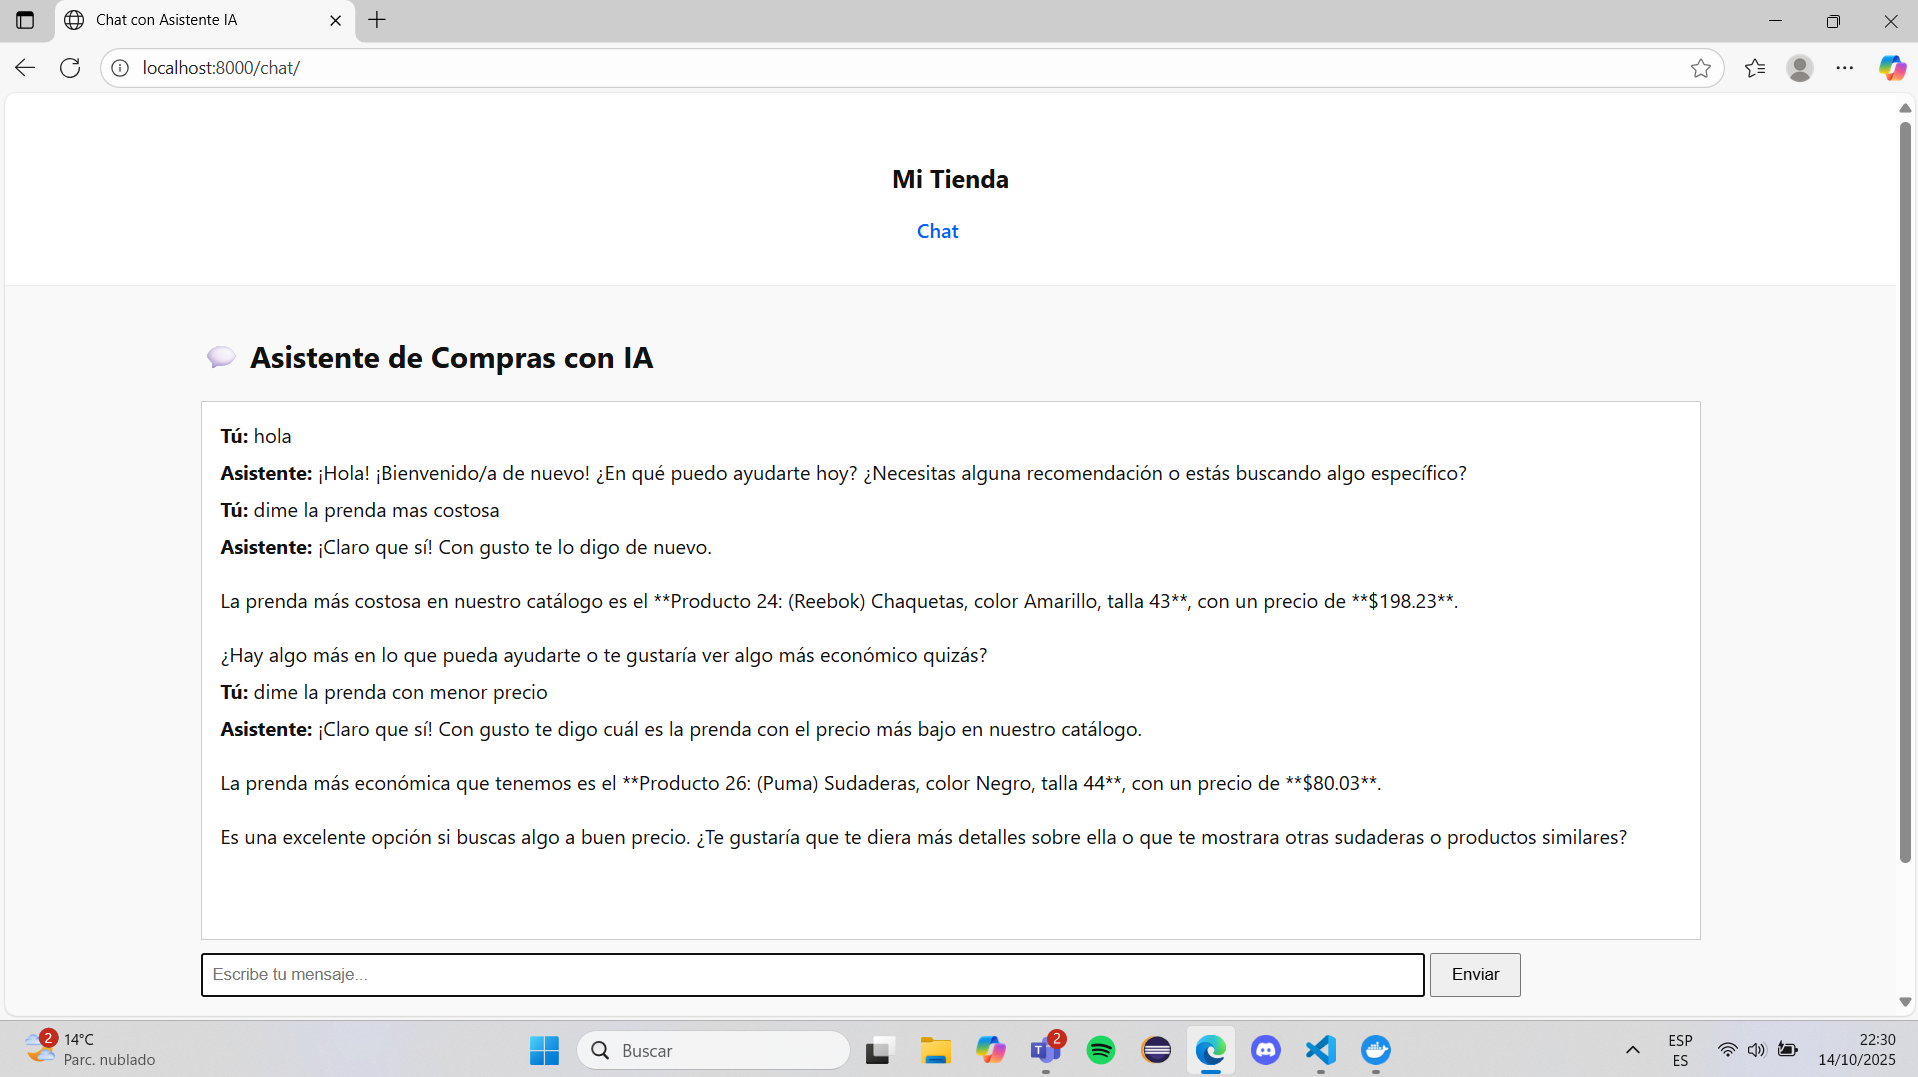
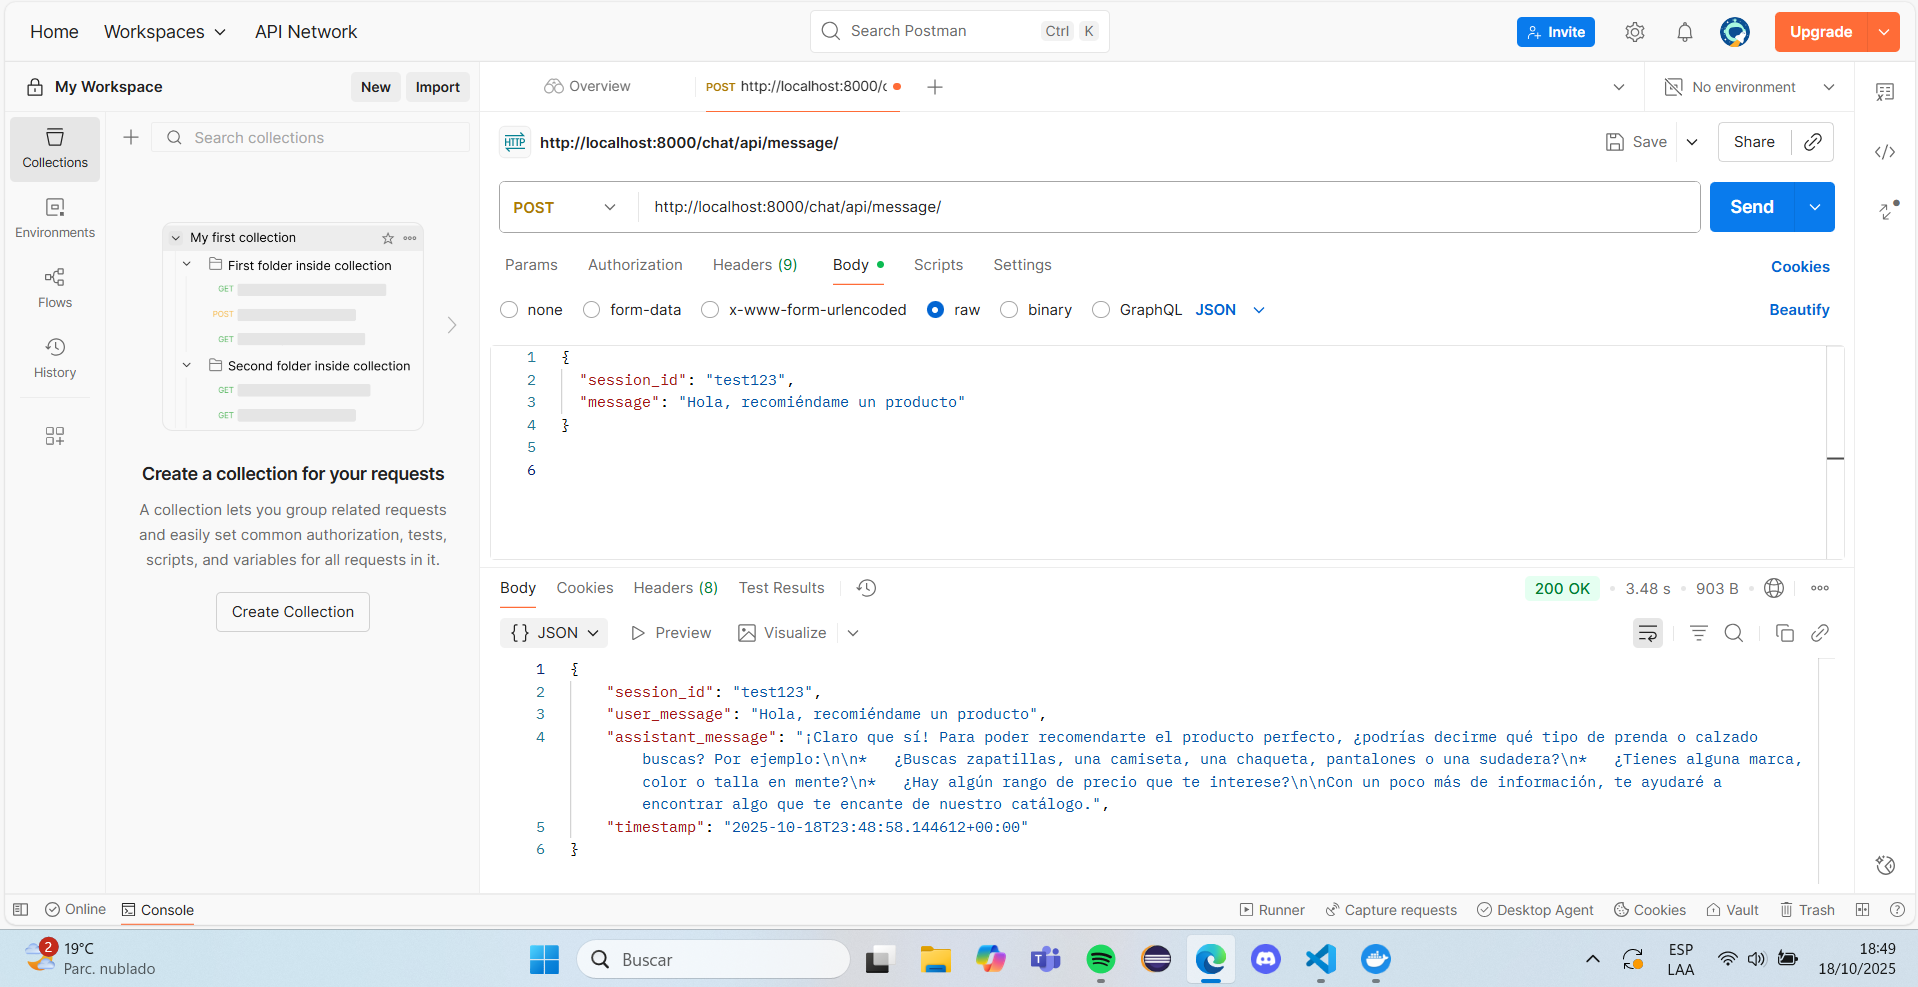
Final: evidencia chat apil

diff --git a/chat/views.py b/chat/views.py
@@ -8,7 +8,7 @@ from django.utils import timezone
 from .models import ChatMessage
 from products.models import Product
 from .ai_service import GeminiService
-
+from django.views.decorators.csrf import csrf_exempt
 
 def chat_ui(request):
     """Muestra la interfaz del chat"""
@@ -19,11 +19,12 @@ def chat_ui(request):
     return render(request, "chat/chat.html", {"session_id": session_id})
 
 
+
+@csrf_exempt
 @require_POST
 def chat_message_api(request):
     """Recibe el mensaje del usuario y devuelve la respuesta de Gemini"""
     try:
-      
         data = json.loads(request.body)
         session_id = data.get("session_id")
         user_text = data.get("message", "").strip()
@@ -31,26 +32,19 @@ def chat_message_api(request):
         if not user_text:
             return JsonResponse({"error": "Mensaje vacío"}, status=400)
 
-      
         ChatMessage.objects.create(session_id=session_id, role="user", message=user_text)
-
         context = list(ChatMessage.objects.filter(session_id=session_id).order_by("created_at")[:6])
-
         products = Product.objects.all()
 
-        
         try:
             ai = GeminiService()
             ai_response = ai.generate_response(user_text, products, context)
         except Exception as e:
-            
             traceback.print_exc()
             ai_response = f"⚠ Error al conectar con la IA: {e}"
 
-        # Guardar respuesta de la IA
         ChatMessage.objects.create(session_id=session_id, role="assistant", message=ai_response)
 
-       
         return JsonResponse({
             "session_id": session_id,
             "user_message": user_text,
